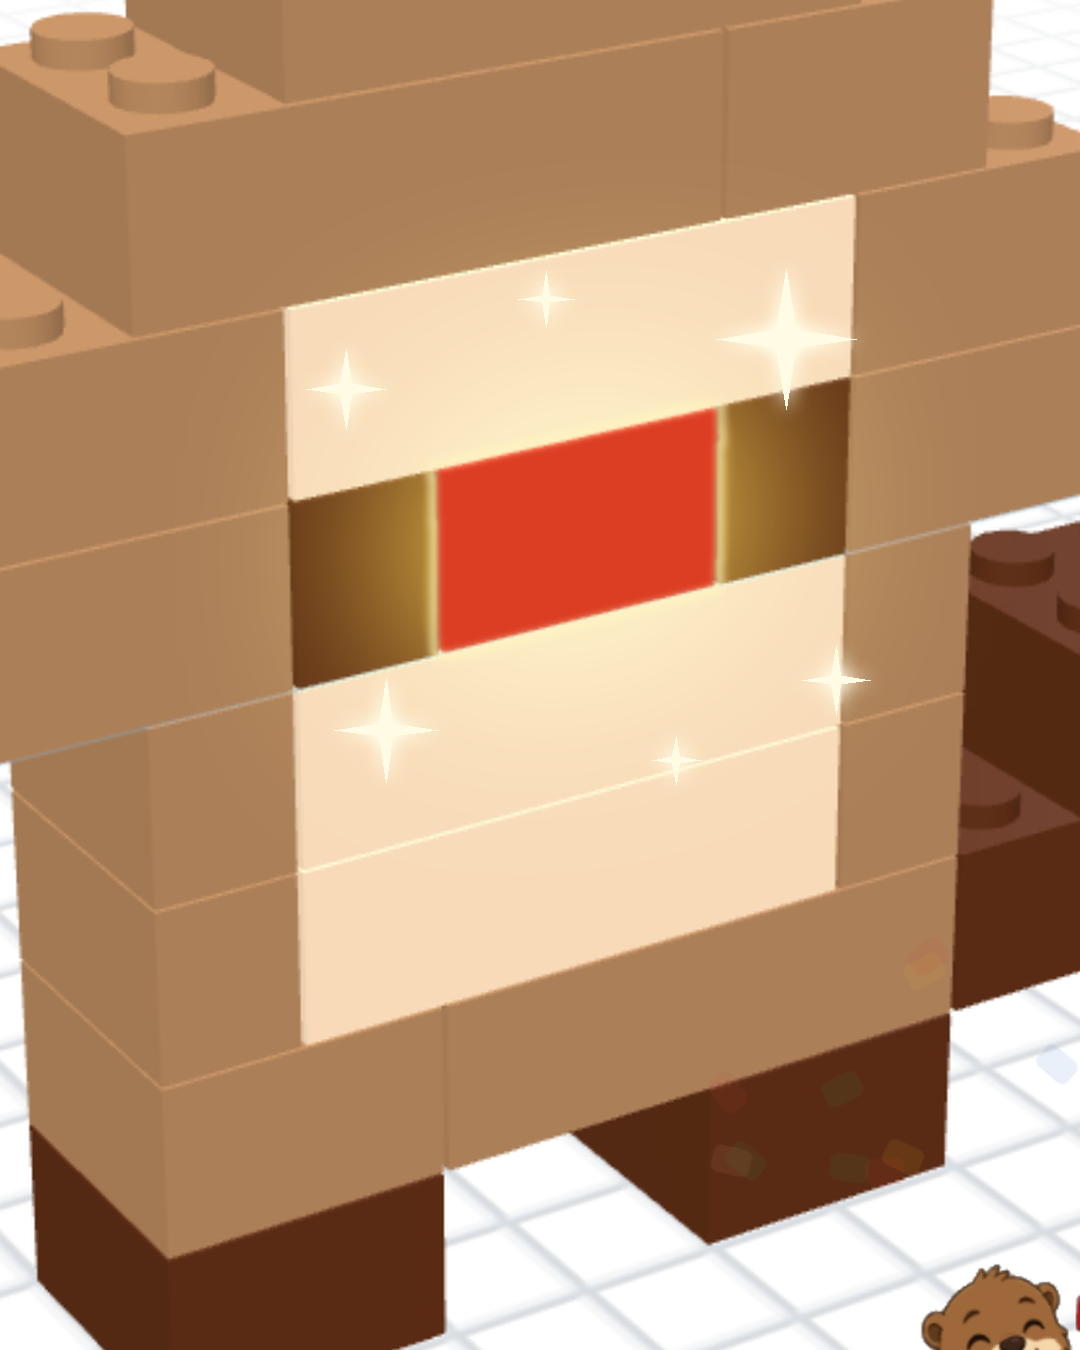
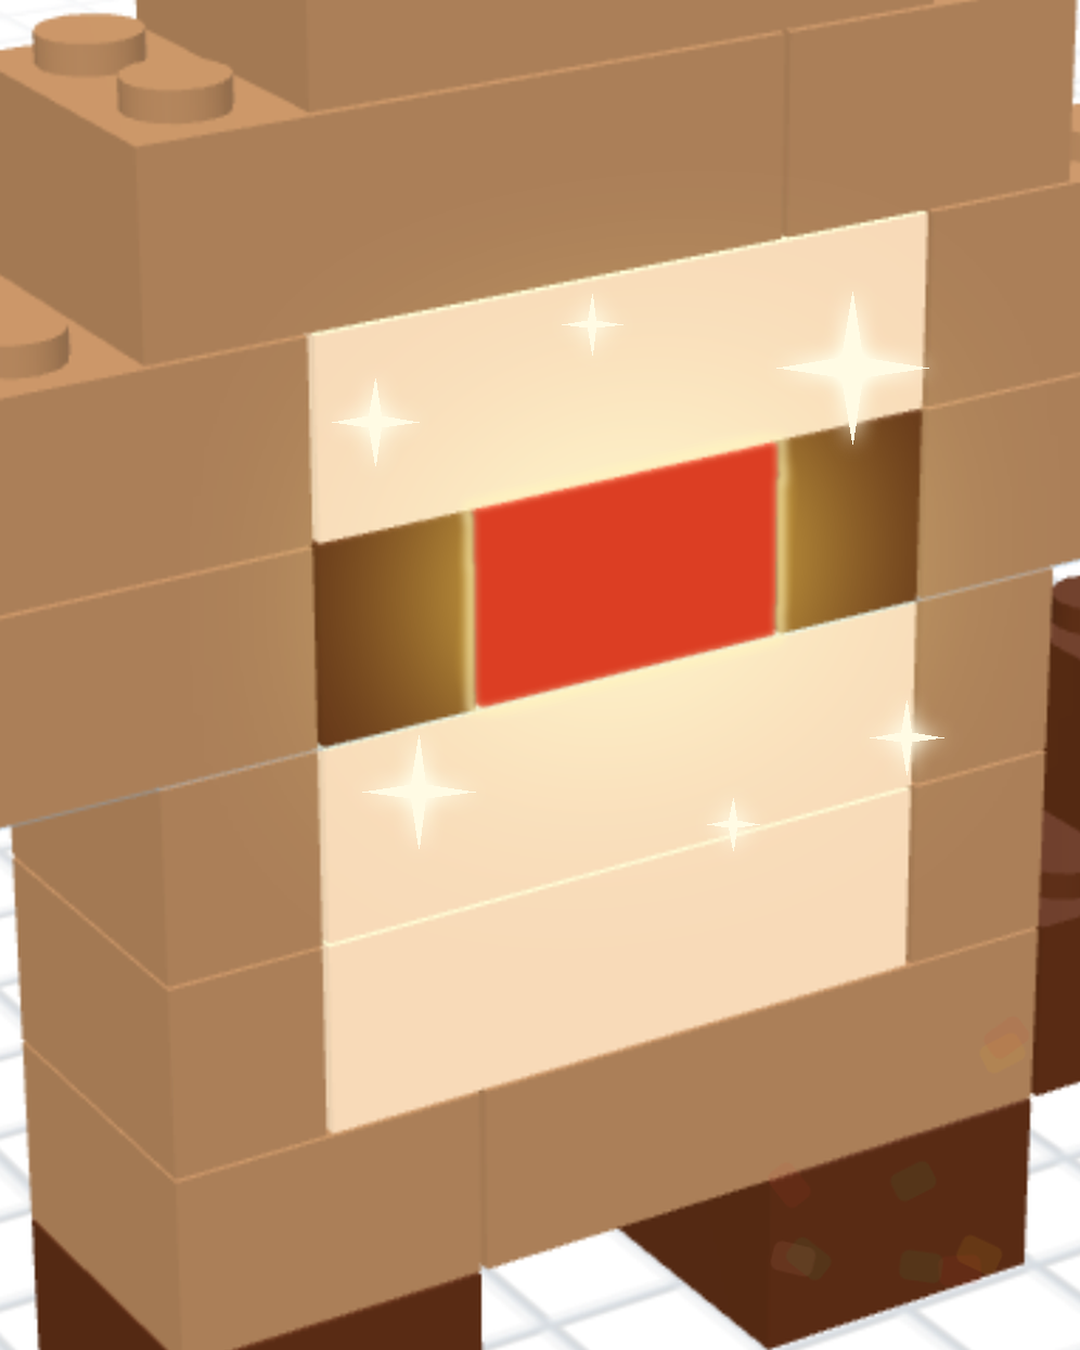
Weekly carousel: slide 4 cropped clear of Bloppit's head; the approved slide lines
Claude-Session: https://claude.ai/code/session_01A9D3qzxbHMNaB6kT2ZAPEE

diff --git a/marketing/weekly-carousel-2026-11-16/README.md b/marketing/weekly-carousel-2026-11-16/README.md
@@ -6,3 +6,8 @@ Six portrait images, 1080x1350, no text on them. Steff sent these six on 16 Nov 
 model, "Bloppit and the red brick" · 4 close on the red brick just in, with its sparkle · 5 the signature Bloppit
 picture · 6 the wordmark with the World / of / Bricks bricks.
 The video that goes with it is in `marketing/weekly-video-2026-11-16/`.
+
+Slide 4 was cropped a little tighter on 16 Nov (Steff: Bloppit's head showed in the bottom right corner).
+The lines Steff approved for the slides (16 Nov): 1 "Bibi's Weekly Bloppit." · 2 "A new puzzle every Monday. The
+same one for everyone." · 3 "This week: Bloppit himself." · 4 "The last piece is his red brick." · 5 "Let's
+bloppit!" · 6 "On iPhone and iPad. Link in bio." The post's caption is in the Docs "Bloppit Launch Pack", Sweep 2.
